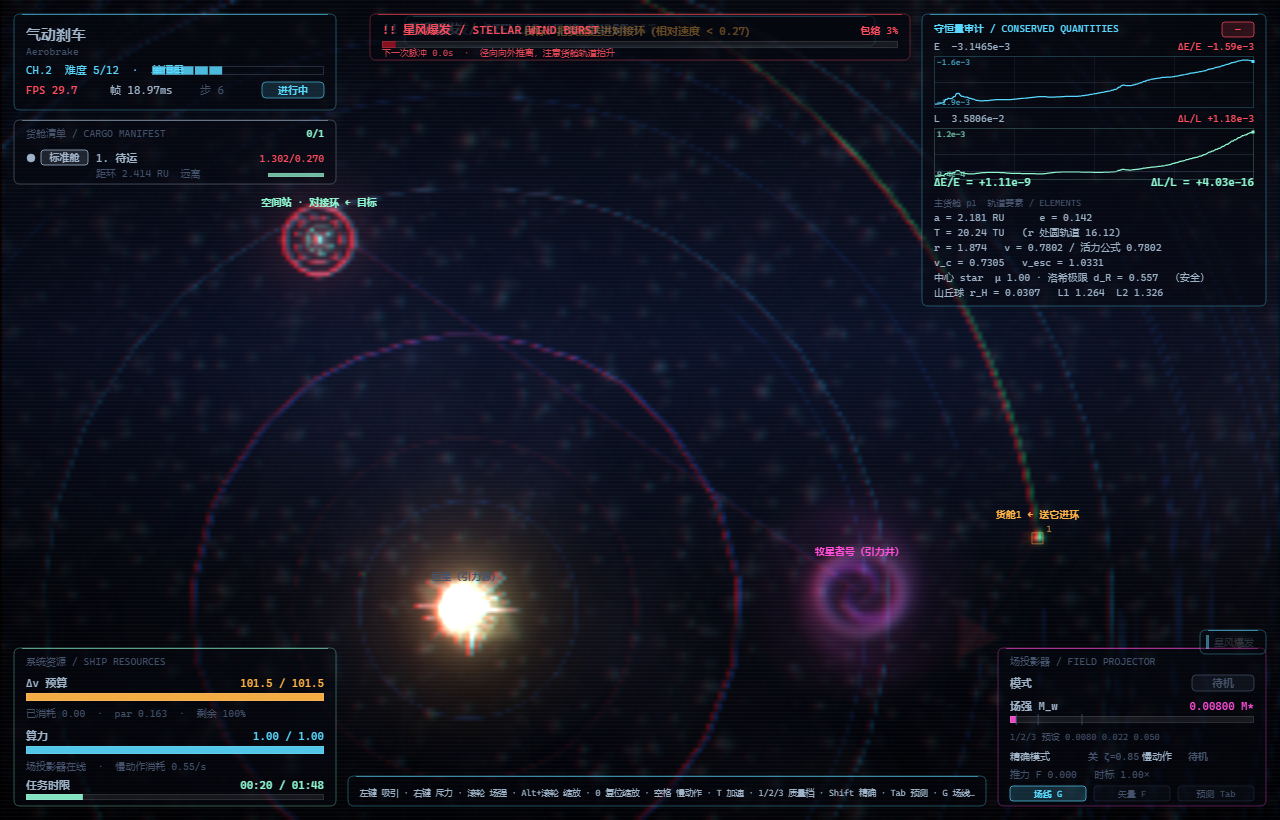
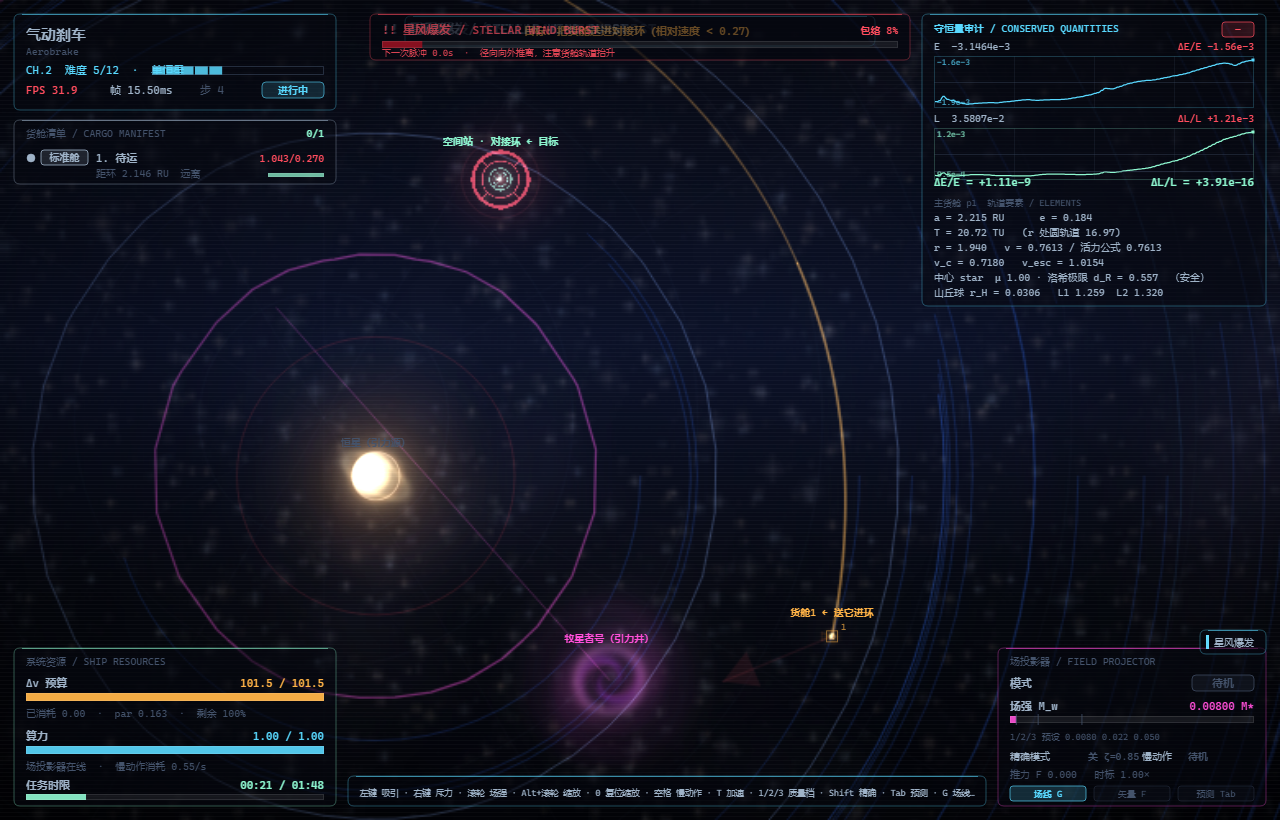
fix(events): 宇宙风暴真正生效 —— 根因是运行时 level 对象漏抄 events 字段
历时三轮的定位结果：
- 现象：前端拿得到 events 数据、world.events 数组也存在，但 eta 恒为初始值、x 恒为 0
- 根因：src/sim/world.ts 构造运行时 LevelRuntime 时是**逐字段手工拷贝**的（nameZh/nameEn/
  difficulty/parTime/... 一路抄下来），**漏抄了 events**；于是 applyEvents 读
  world.level.events 得到 undefined，第一行就 return —— 而 world.events 数组是用 spec 初始化的，
  所以"数组存在但永不更新"，这个组合极难从表象推断
- 修法：在运行时 level 里补上 events: level.events（并留注释警示这类漏抄）

实测（无头，L2-2，AI 实时跑）：
  eta 15 → 13.1 → 11.2 → … → 1.8 逐秒倒数 ✓
  锋面位置 x -21.58 → -4.39 持续推进 ✓
  t≈19.9 时 active 变为 True（锋面抵达作业区）✓
  周期正确回绕（period=24 TU）✓  无 JS 报错 ✓

经验记录：本项目已有两条"改数据/字段必须重启宿主或检查逐字段拷贝"的陷阱，已两次踩到。

diff --git a/src/sim/world.ts b/src/sim/world.ts
@@ -210,6 +210,8 @@ export function createWorld(level: LevelSpec, doc: LevelsDoc, attempt = 1): Worl
       notes: level.solution?.notes ?? '',
     },
     bounds: level.bounds,
+    // 定时事件（宇宙风暴等）：必须抄进运行时 level，否则 applyEvents 读到 undefined（曾经漏抄导致"数据到了前端但事件静默失效"）
+    events: level.events,
     // 时限（秒）。第 1 章是教学章：给足 180 秒，让玩家能反复试错而不被计时器逼死。
     // 注意时限不参与计分——时间分用的是 parTime（见 score.ts），所以放宽时限不会让分数虚高。
     timeLimit: Math.max(90, level.par_time * 3.4, level.chapter === 1 ? 180 : 0),
